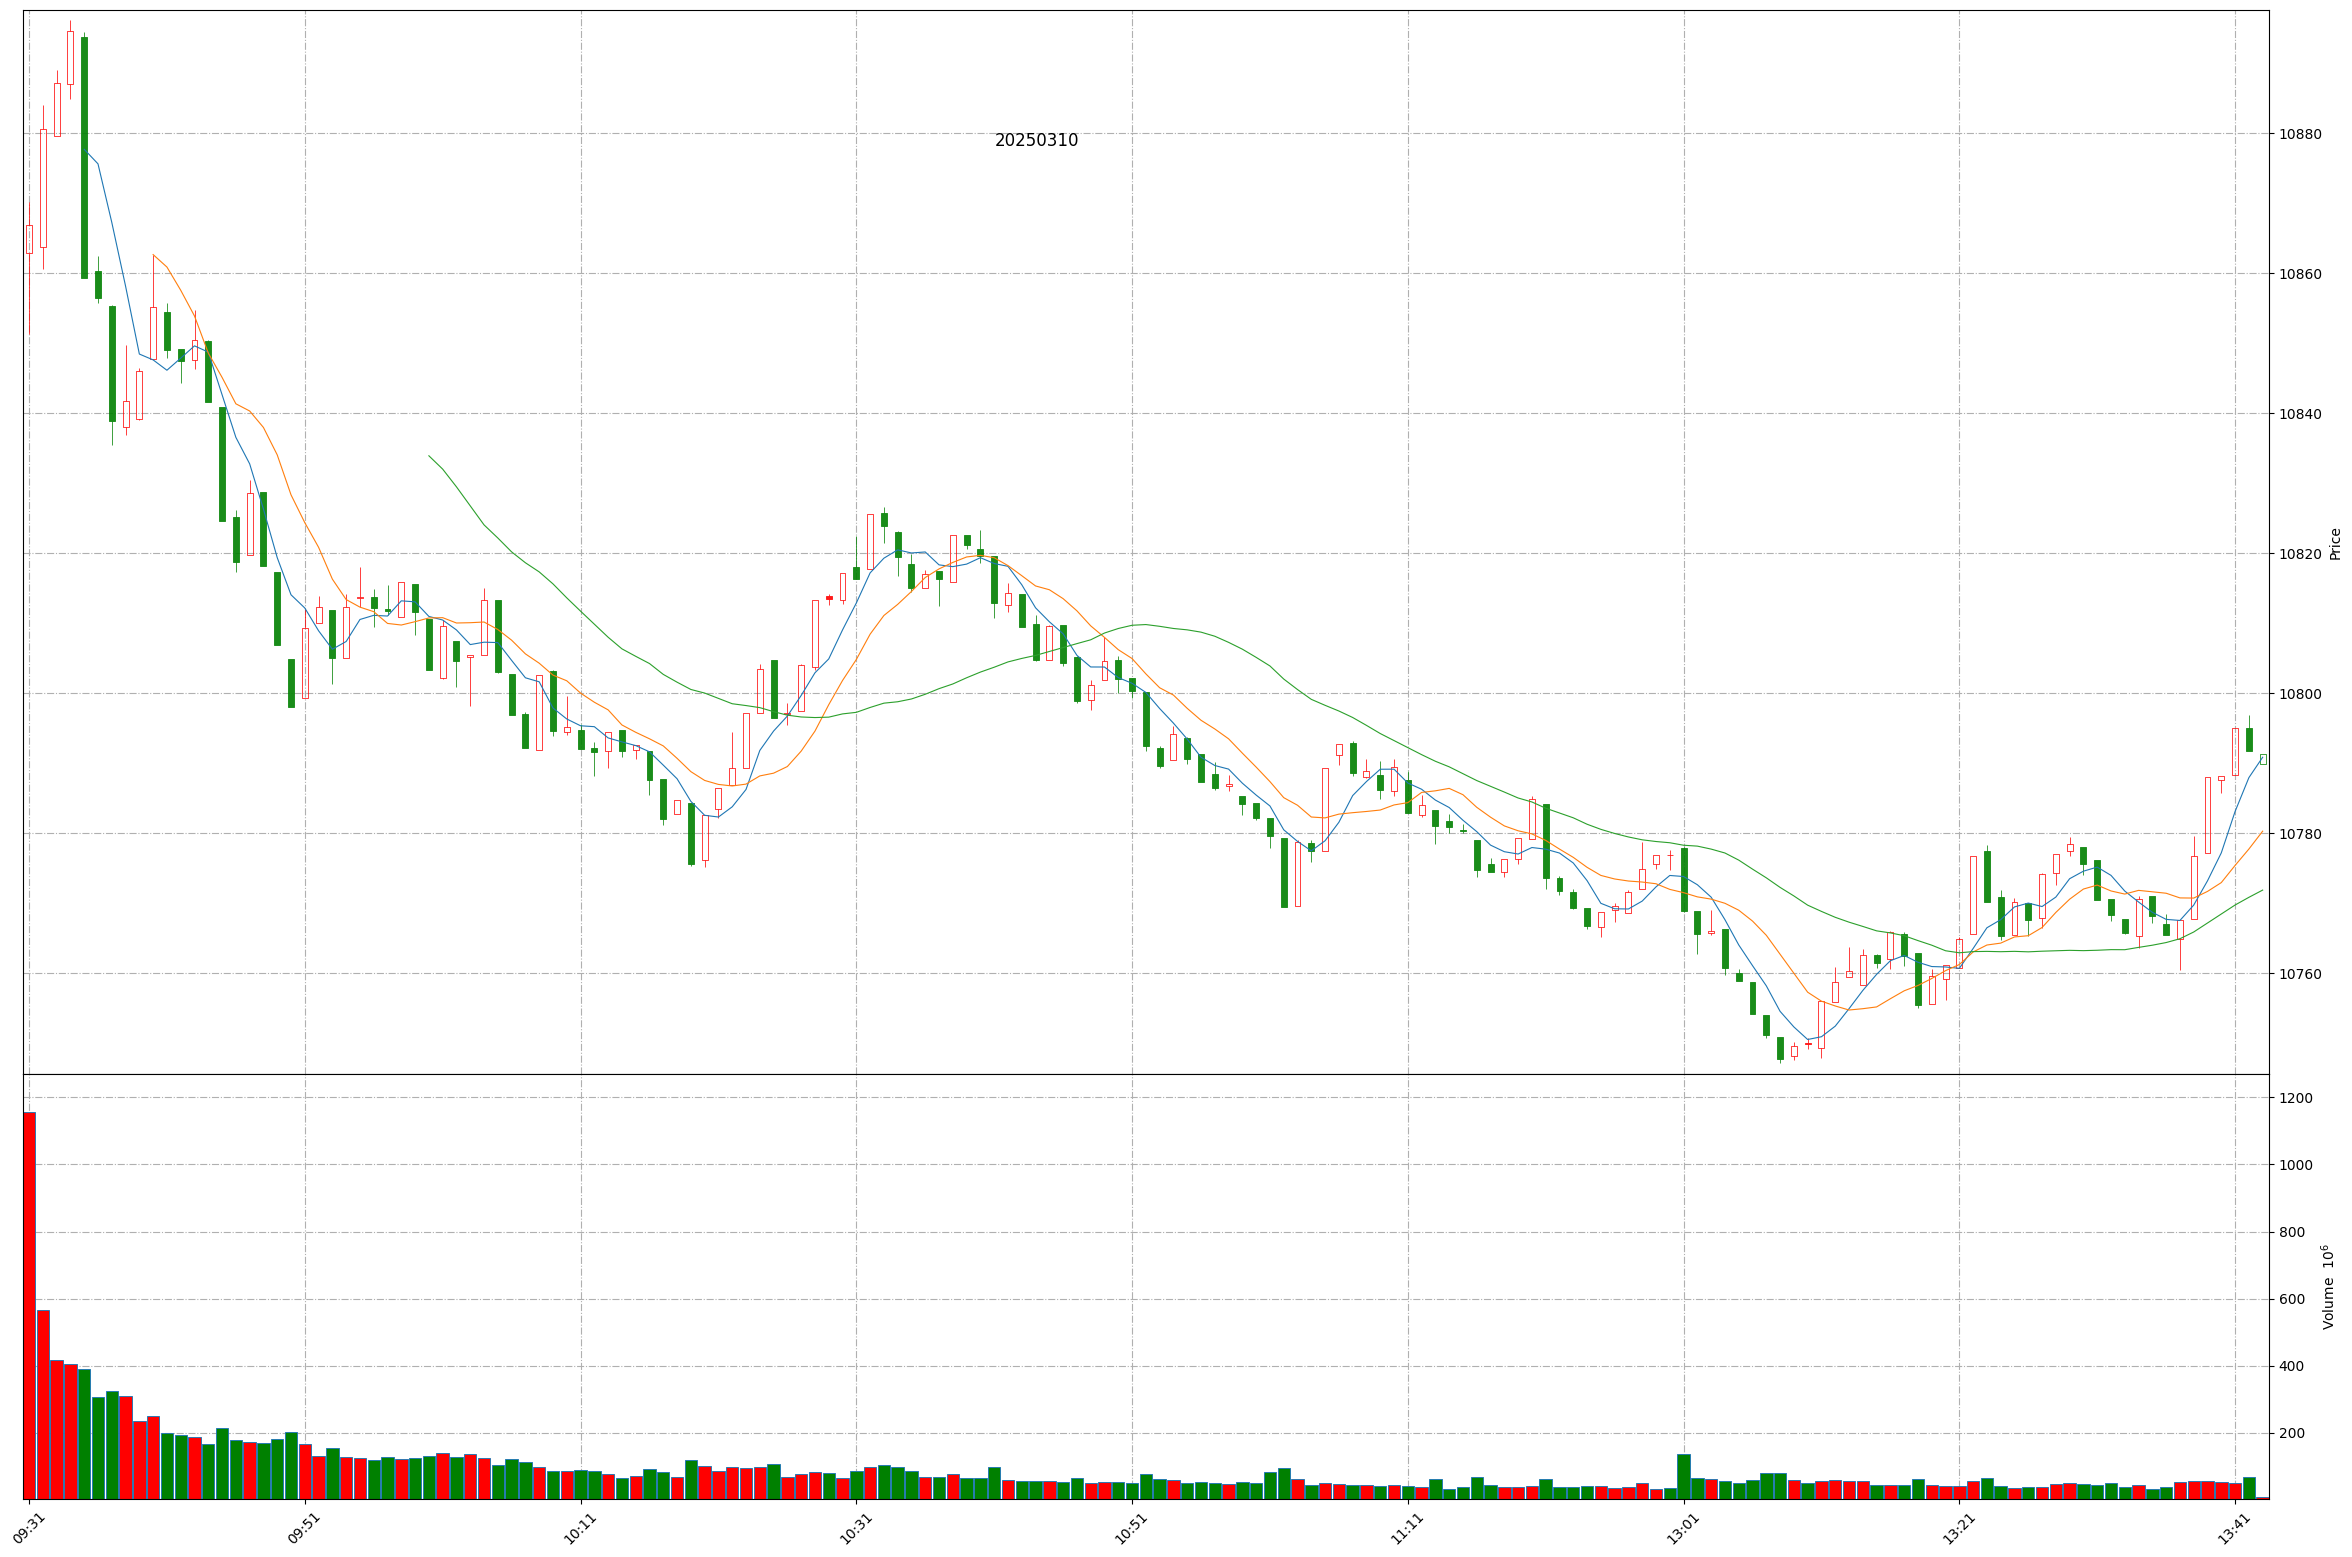
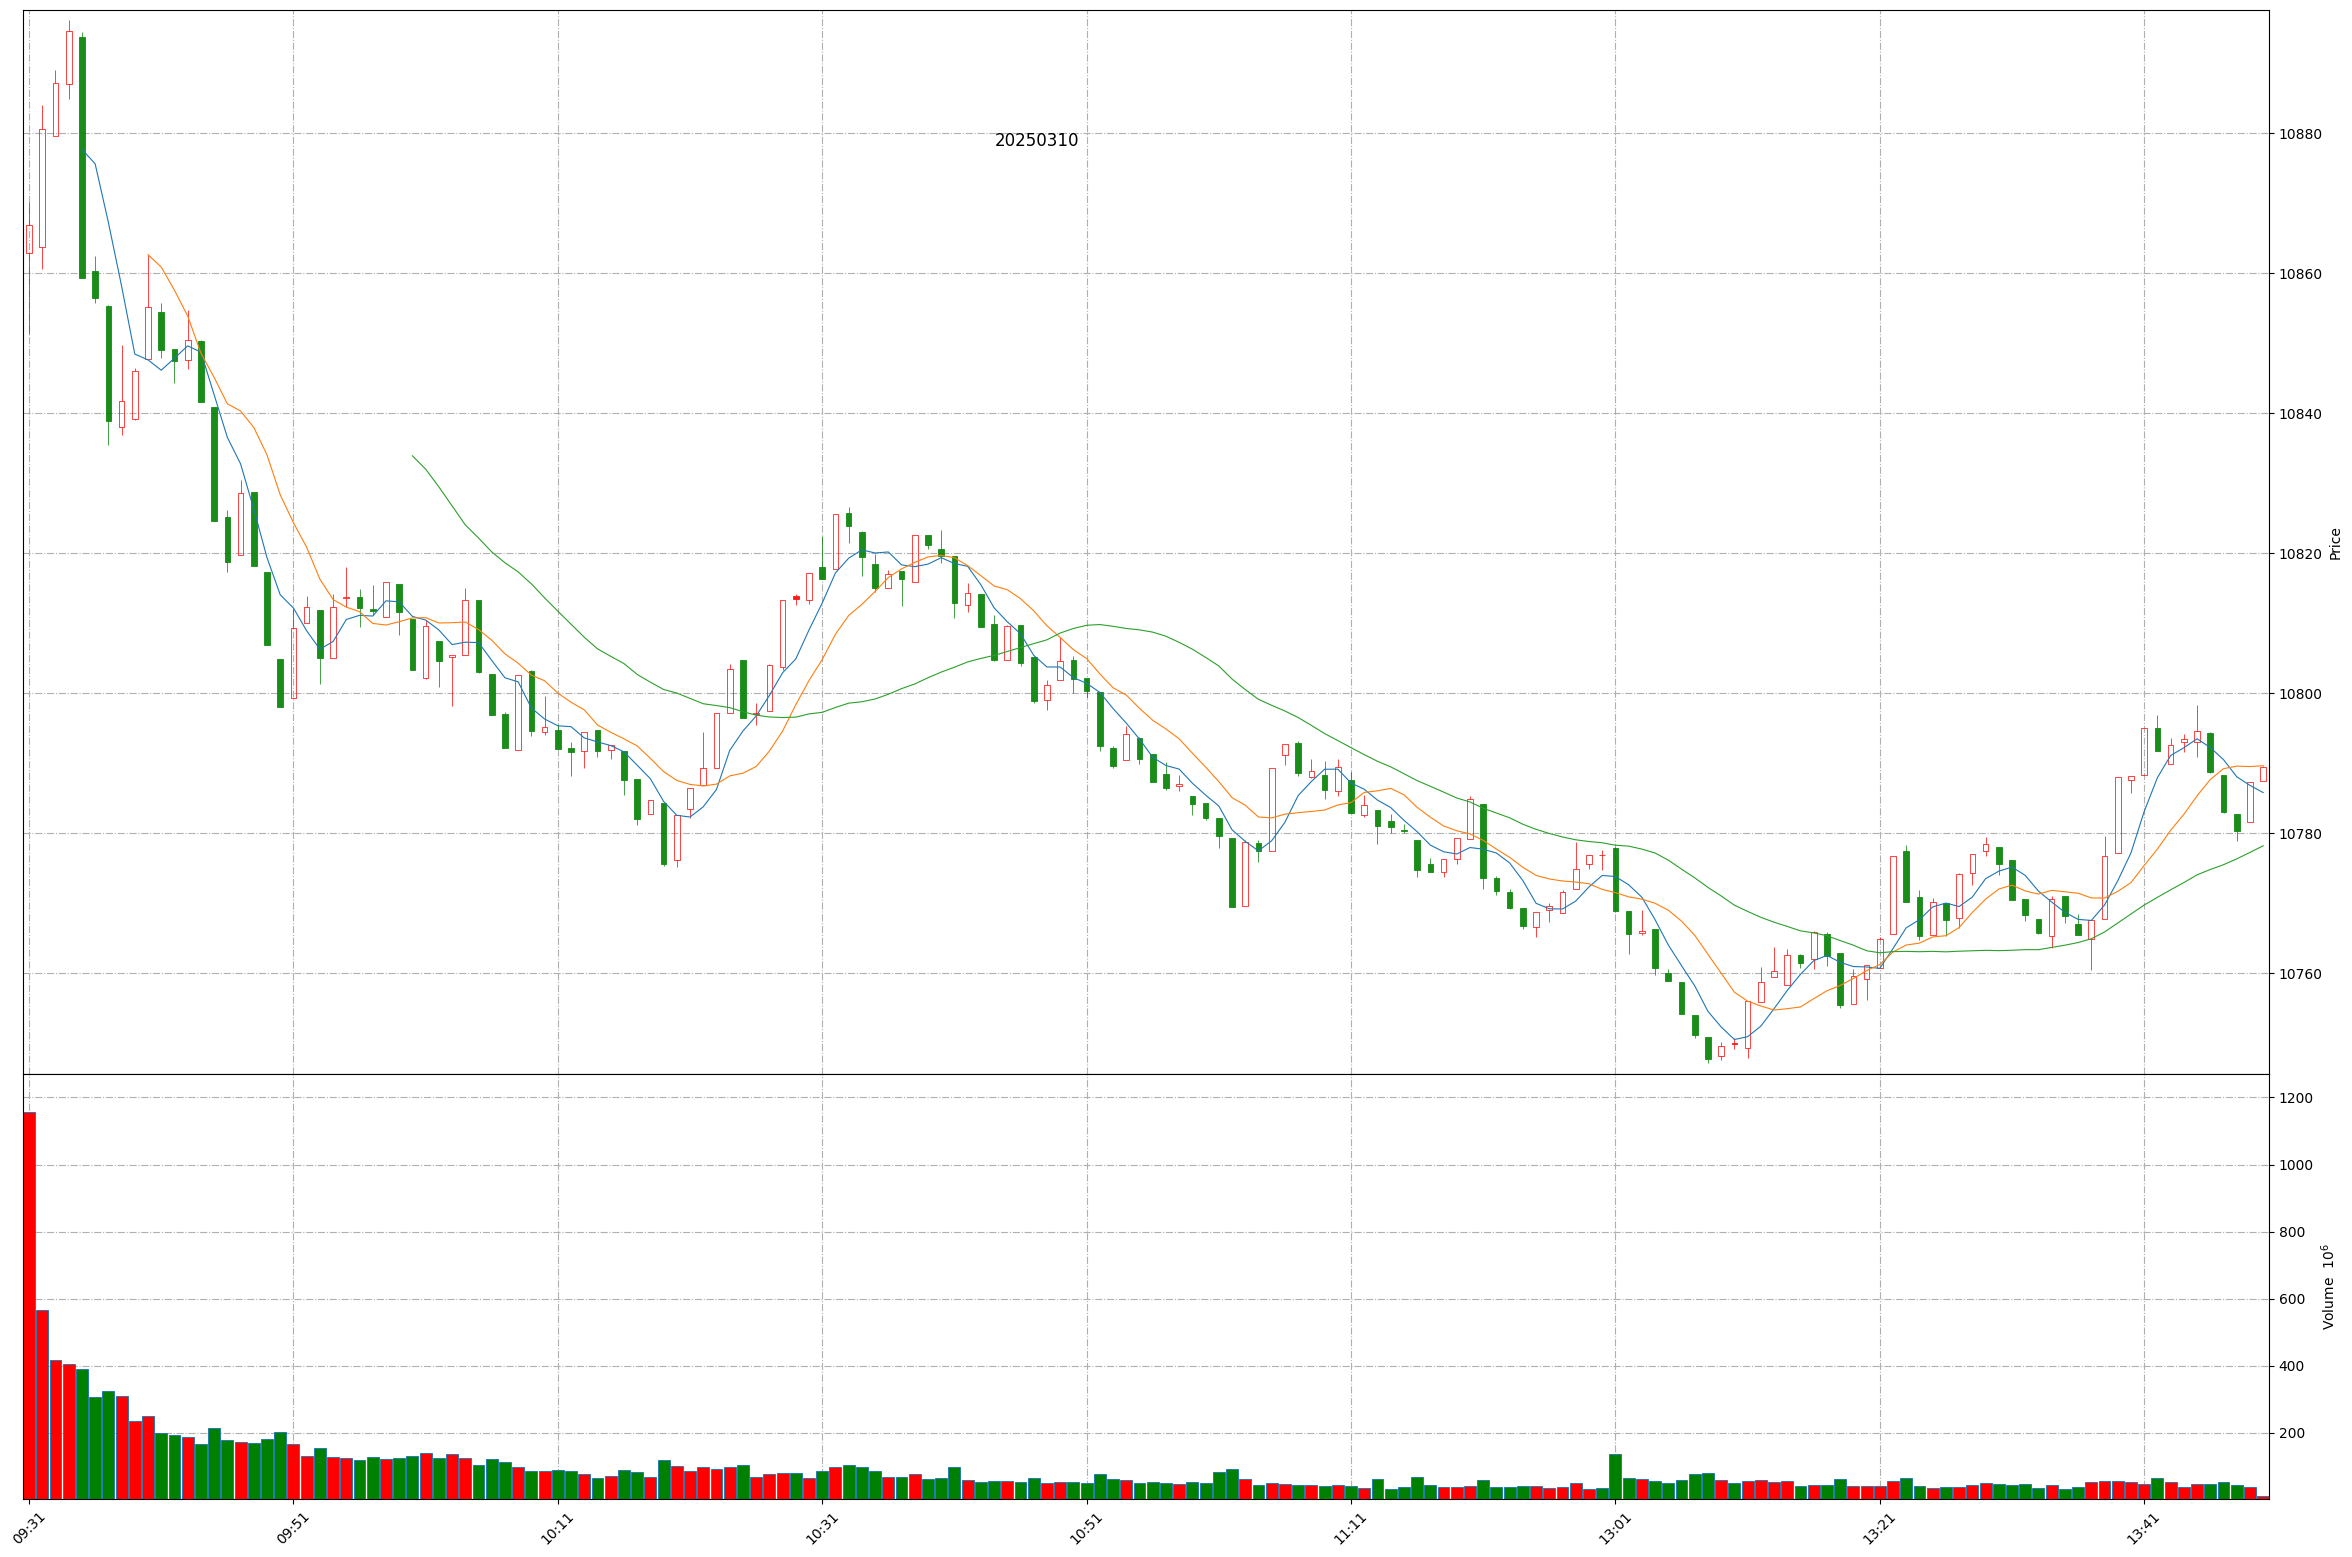
Github action update at 2025-03-10 13:49:28.

Changed region(s): [[0.3104, 0.3391, 0.9622, 0.6782], [0.031, 0.894, 0.9622, 0.9865], [0.031, 0.0925, 0.3104, 0.5549]]

diff --git a/README.md b/README.md
@@ -1,11 +1,11 @@
 
 # Daily-A-share-market-quotes 每日 A 股指数（5min 更新）- 20250310
 
-### 上证指数 20250310 13:42
+### 上证指数 20250310 13:49
 ![](./fig/2025/3/20250310-sh000001.png)
 
-### 深证成指 20250310 13:42
+### 深证成指 20250310 13:49
 ![](./fig/2025/3/20250310-sz399001.png)
 
-### 北证50 20250310 13:42
+### 北证50 20250310 13:49
 ![](./fig/2025/3/20250310-bj899050.png)
